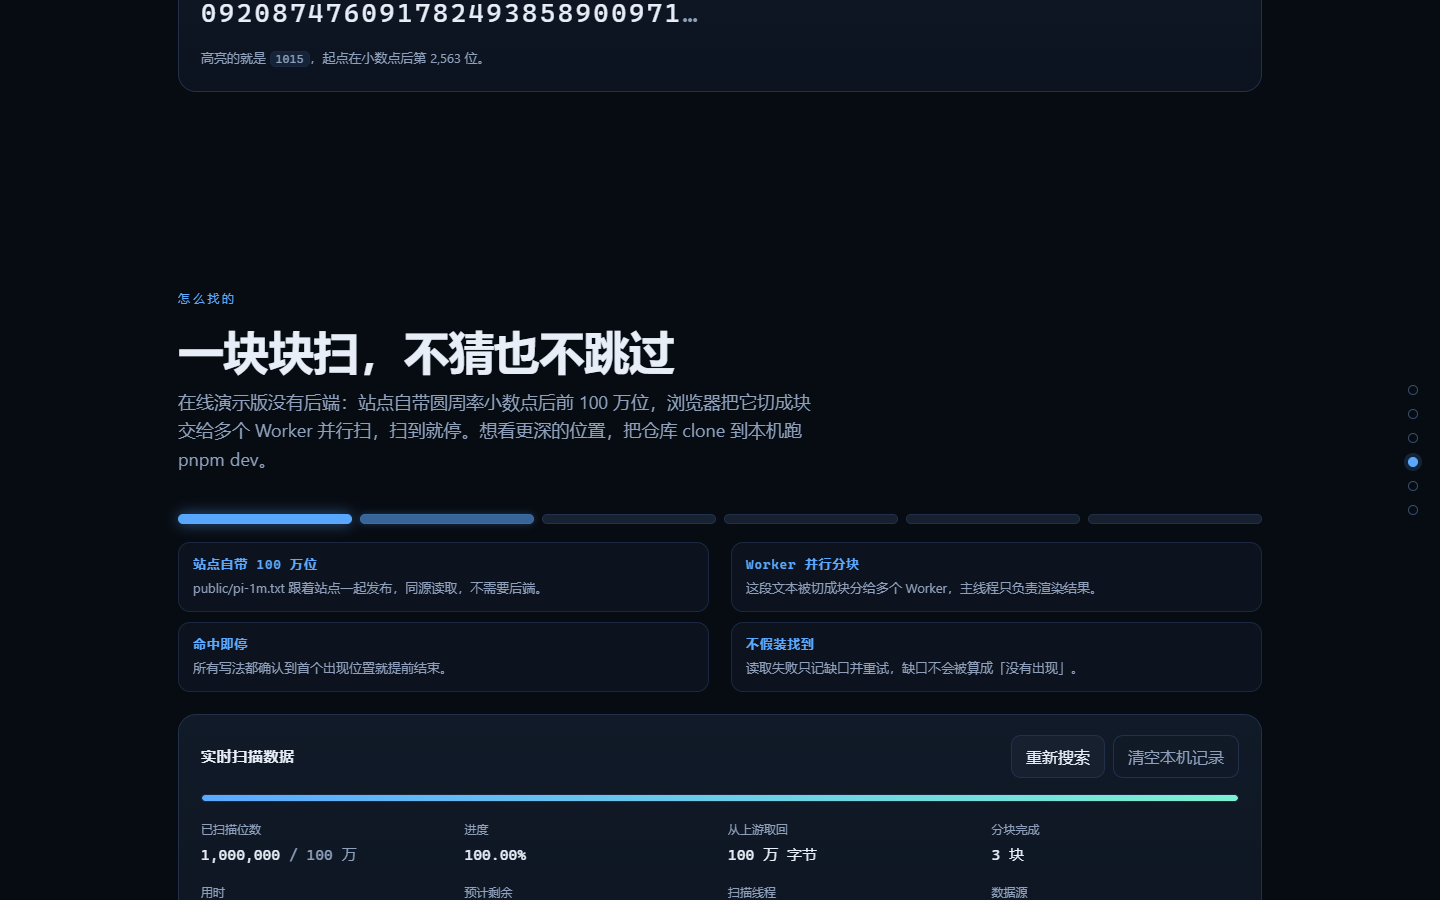
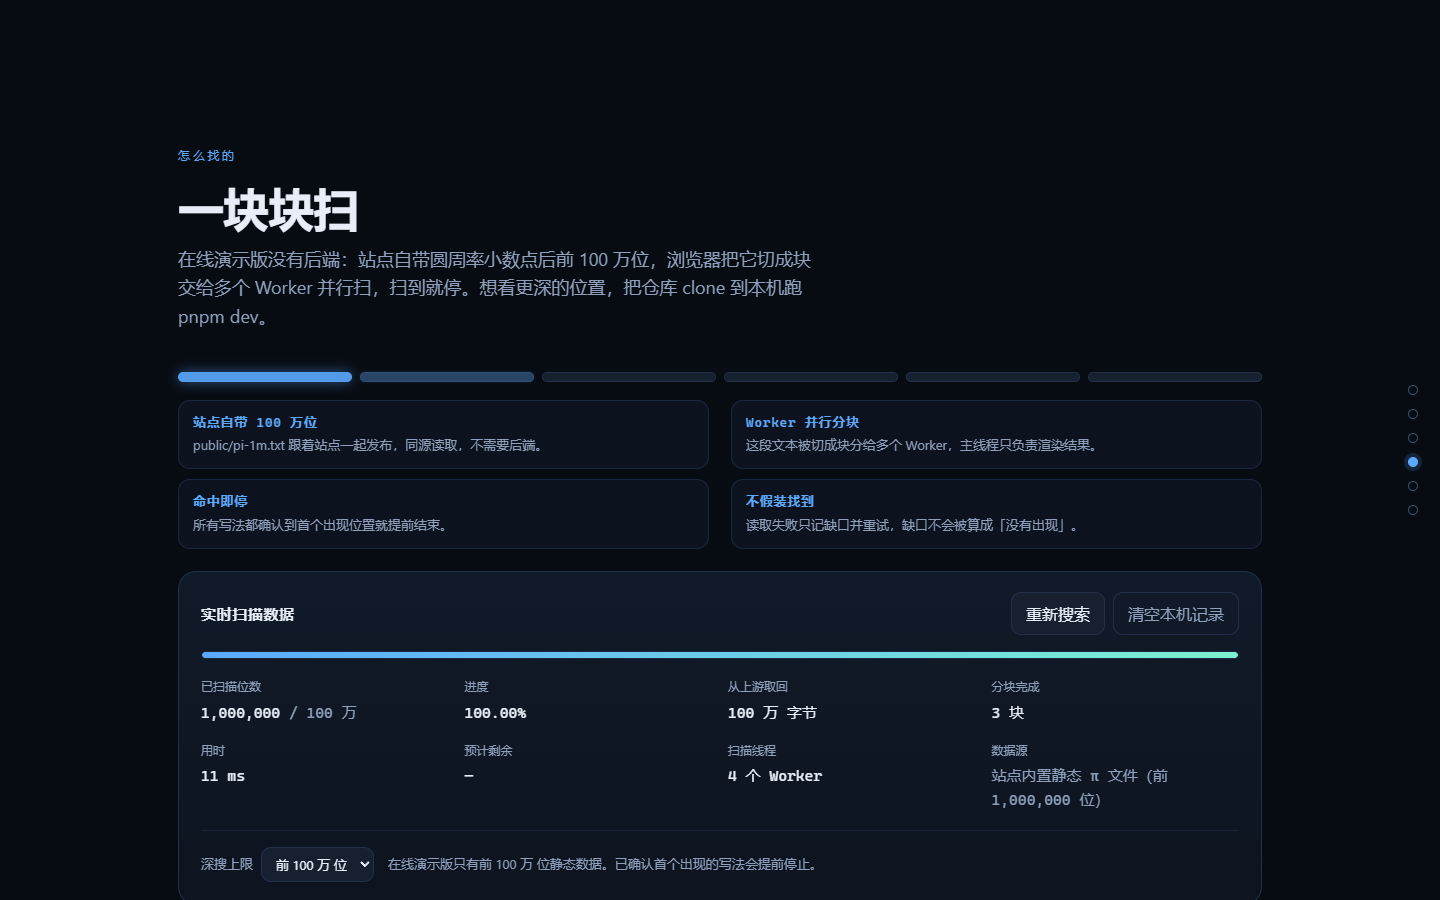
首屏去掉静态说明与数据源行、#engine 静态版标题精简为「一块块扫」、整页滚动加入滚动吸附
滚动吸附：html scroll-snap-type:y proximity + 每章 scroll-snap-align:start，并用 useSectionPaging 接管滚轮（边界翻整段、长章节先原生滚、700ms 锁定窗口；触屏/键盘/reduced-motion 不拦）。翻页判定提取为 src/lib/paging.ts 纯函数并补单测（79 tests）。

diff --git a/tests/paging.test.ts b/tests/paging.test.ts
@@ -1,0 +1,93 @@
+import { describe, expect, it } from 'vitest';
+import { PAGE_SLACK, pageTarget, sectionIndexAt, normalizeSections, type PagingSection } from '../src/lib/paging';
+
+const VIEWPORT = 800;
+const MAX_SCROLL = 4000;
+
+/** hero 一屏，forms 比一屏高，digits 一屏，多给一段用于测试夹取。 */
+const SECTIONS: PagingSection[] = [
+  { id: 'hero', top: 0, height: 800 },
+  { id: 'forms', top: 800, height: 1200 },
+  { id: 'digits', top: 2000, height: 800 },
+];
+
+describe('归一化与定位', () => {
+  it('乱序输入按文档顺序排好', () => {
+    const shuffled = [SECTIONS[2], SECTIONS[0], SECTIONS[1]];
+    expect(normalizeSections(shuffled).map((s) => s.id)).toEqual(['hero', 'forms', 'digits']);
+  });
+
+  it('段落顶部算作该段，段内位置也归该段', () => {
+    expect(sectionIndexAt(SECTIONS, 0)).toBe(0);
+    expect(sectionIndexAt(SECTIONS, 799)).toBe(0);
+    expect(sectionIndexAt(SECTIONS, 800)).toBe(1);
+    expect(sectionIndexAt(SECTIONS, 1900)).toBe(1);
+    expect(sectionIndexAt(SECTIONS, 2000)).toBe(2);
+  });
+
+  it('还没滚到第一段时归第一段；空列表返回 -1', () => {
+    expect(sectionIndexAt(SECTIONS, -50)).toBe(0);
+    expect(sectionIndexAt([], 0)).toBe(-1);
+  });
+});
+
+describe('向下翻页', () => {
+  it('一屏高的段落：任何向下滚动都吸到下一段开头', () => {
+    expect(pageTarget(SECTIONS, VIEWPORT, MAX_SCROLL, 0, 1)).toBe(800);
+    expect(pageTarget(SECTIONS, VIEWPORT, MAX_SCROLL, 12, 1)).toBe(800);
+  });
+
+  it('比一屏高的段落：没滚到底就交回原生滚动', () => {
+    // forms 的底边对齐视口底部是 scrollY = 800 + 1200 - 800 = 1200
+    expect(pageTarget(SECTIONS, VIEWPORT, MAX_SCROLL, 801, 1)).toBeNull();
+    expect(pageTarget(SECTIONS, VIEWPORT, MAX_SCROLL, 1100, 1)).toBeNull();
+    expect(pageTarget(SECTIONS, VIEWPORT, MAX_SCROLL, 1200 - PAGE_SLACK - 1, 1)).toBeNull();
+  });
+
+  it('滚到段落底部后翻到下一段', () => {
+    expect(pageTarget(SECTIONS, VIEWPORT, MAX_SCROLL, 1200 - PAGE_SLACK, 1)).toBe(2000);
+    expect(pageTarget(SECTIONS, VIEWPORT, MAX_SCROLL, 1300, 1)).toBe(2000);
+  });
+
+  it('最后一段到底后不再翻，交回原生滚动', () => {
+    expect(pageTarget(SECTIONS, VIEWPORT, MAX_SCROLL, MAX_SCROLL, 1)).toBeNull();
+  });
+
+  it('段落底部超出文档上限时按上限夹取', () => {
+    const shorter = [
+      { id: 'a', top: 0, height: 800 },
+      { id: 'b', top: 800, height: 5000 },
+    ];
+    expect(pageTarget(shorter, VIEWPORT, 1000, 0, 1)).toBe(800);
+    expect(pageTarget(shorter, VIEWPORT, 700, 0, 1)).toBe(700);
+  });
+});
+
+describe('向上翻页', () => {
+  it('段首（含容差）向上吸到上一段开头', () => {
+    expect(pageTarget(SECTIONS, VIEWPORT, MAX_SCROLL, 2000, -1)).toBe(800);
+    expect(pageTarget(SECTIONS, VIEWPORT, MAX_SCROLL, 2000 + PAGE_SLACK, -1)).toBe(800);
+  });
+
+  it('比一屏高的段落内向上先交回原生滚动', () => {
+    expect(pageTarget(SECTIONS, VIEWPORT, MAX_SCROLL, 800 + PAGE_SLACK + 1, -1)).toBeNull();
+    expect(pageTarget(SECTIONS, VIEWPORT, MAX_SCROLL, 1800, -1)).toBeNull();
+  });
+
+  it('一屏高段落里向上直接翻页（没有可再往下看的内容）', () => {
+    expect(pageTarget(SECTIONS, VIEWPORT, MAX_SCROLL, 2000 + PAGE_SLACK + 1, -1)).toBe(800);
+    expect(pageTarget(SECTIONS, VIEWPORT, MAX_SCROLL, 2600, -1)).toBe(800);
+  });
+
+  it('第一段向上回到 0', () => {
+    expect(pageTarget(SECTIONS, VIEWPORT, MAX_SCROLL, 0, -1)).toBe(0);
+  });
+});
+
+describe('退化输入', () => {
+  it('空章节表 / 零视口 / 无法滚动时都不干预', () => {
+    expect(pageTarget([], VIEWPORT, MAX_SCROLL, 0, 1)).toBeNull();
+    expect(pageTarget(SECTIONS, 0, MAX_SCROLL, 0, 1)).toBeNull();
+    expect(pageTarget(SECTIONS, VIEWPORT, 0, 0, 1)).toBeNull();
+  });
+});

diff --git a/src/hooks/useSectionPaging.ts b/src/hooks/useSectionPaging.ts
@@ -1,0 +1,72 @@
+import { useEffect } from 'react';
+import { pageTarget, type PagingSection } from '../lib/paging';
+
+/** 一次翻页动画期间吞掉同一手势剩下的滚轮事件（毫秒）。 */
+const LOCK_MS = 700;
+/** 小于这个量级的 deltaY 当抖动丢掉。 */
+const MIN_DELTA = 4;
+
+/** 光标下还有能继续滚的容器时不要抢滚动（例如将来的代码块）。 */
+function scrollableAncestor(target: EventTarget | null, direction: 1 | -1): boolean {
+  let node = target instanceof HTMLElement ? target : null;
+  while (node && node !== document.body && node !== document.documentElement) {
+    const style = window.getComputedStyle(node);
+    if (/(auto|scroll)/.test(style.overflowY) && node.scrollHeight > node.clientHeight + 1) {
+      const room = direction === 1 ? node.scrollHeight - node.clientHeight - node.scrollTop : node.scrollTop;
+      if (room > 1) return true;
+    }
+    node = node.parentElement;
+  }
+  return false;
+}
+
+/** 现场量章节几何（6 段，开销可忽略；量完即用，不缓存，避免动画期间位置过期）。 */
+export function measureSections(ids: readonly string[]): PagingSection[] {
+  const out: PagingSection[] = [];
+  for (const id of ids) {
+    const node = document.getElementById(id);
+    if (!node) continue;
+    const rect = node.getBoundingClientRect();
+    out.push({ id, top: Math.round(rect.top + window.scrollY), height: Math.round(rect.height) });
+  }
+  return out;
+}
+
+/**
+ * 整页滚动吸附：滚轮一步落在章节边界上时，直接翻一整段；段落本身比一屏高时，
+ * 先让浏览器原生滚到底，再翻下一页。触屏、键盘、拖动滚动条都不拦。
+ */
+export function useSectionPaging(ids: readonly string[], enabled = true) {
+  const key = ids.join(',');
+
+  useEffect(() => {
+    if (!enabled || typeof window === 'undefined') return;
+    if (typeof window.matchMedia === 'function' && window.matchMedia('(prefers-reduced-motion: reduce)').matches) return;
+
+    const idList = key ? key.split(',') : [];
+    let lockUntil = 0;
+
+    const onWheel = (event: WheelEvent) => {
+      if (event.defaultPrevented || event.ctrlKey || Math.abs(event.deltaY) < MIN_DELTA) return;
+      const now = Date.now();
+      if (now < lockUntil) {
+        event.preventDefault();
+        return;
+      }
+      const direction: 1 | -1 = event.deltaY > 0 ? 1 : -1;
+      if (scrollableAncestor(event.target, direction)) return;
+
+      const viewportHeight = window.innerHeight;
+      const maxScroll = Math.max(0, document.documentElement.scrollHeight - viewportHeight);
+      const target = pageTarget(measureSections(idList), viewportHeight, maxScroll, window.scrollY, direction);
+      if (target === null || Math.abs(target - window.scrollY) < 1) return;
+
+      event.preventDefault();
+      lockUntil = now + LOCK_MS;
+      window.scrollTo({ top: target, behavior: 'smooth' });
+    };
+
+    window.addEventListener('wheel', onWheel, { passive: false });
+    return () => window.removeEventListener('wheel', onWheel);
+  }, [key, enabled]);
+}

diff --git a/src/lib/paging.ts b/src/lib/paging.ts
@@ -1,0 +1,68 @@
+/**
+ * 整页滚动吸附的纯计算部分：由「章节几何 + 当前滚动位置 + 滚动方向」决定这一次滚轮
+ * 该翻滚到哪一段的开头，还是交回浏览器原生滚动。
+ *
+ * 为什么不直接用 CSS `scroll-snap-type: y mandatory`：本站有几段比一屏高
+ * （六种写法 6 张卡、引擎控制台），mandatory 会在读到半截时把人弹回段首。
+ */
+
+export interface PagingSection {
+  id: string;
+  /** 文档坐标下的段落顶部 */
+  top: number;
+  height: number;
+}
+
+/** 判定「已经滚到段落底部」的像素容差。 */
+export const PAGE_SLACK = 6;
+
+/** 段落按文档顺序排好；调用方给乱序也安全。 */
+export function normalizeSections(sections: readonly PagingSection[]): PagingSection[] {
+  return [...sections].sort((a, b) => a.top - b.top);
+}
+
+/** 当前位置属于哪一段：取 top <= scrollY 的最后一段；全都还在下面时取第一段。 */
+export function sectionIndexAt(sections: readonly PagingSection[], scrollY: number): number {
+  if (sections.length === 0) return -1;
+  let index = 0;
+  for (let i = 0; i < sections.length; i += 1) {
+    if (sections[i].top <= scrollY) index = i;
+    else break;
+  }
+  return index;
+}
+
+/**
+ * 这一次滚轮该滚到哪：
+ * - `null` = 交回浏览器原生滚动（这一段比一屏高、还没滚到底；或已经到头）。
+ * - 数字 = 该翻滚到的 scrollY（目标段落顶部），吸附效果就来自这里。
+ */
+export function pageTarget(
+  sections: readonly PagingSection[],
+  viewportHeight: number,
+  maxScroll: number,
+  scrollY: number,
+  direction: 1 | -1,
+  slack = PAGE_SLACK,
+): number | null {
+  if (viewportHeight <= 0 || maxScroll <= 0) return null;
+  const list = normalizeSections(sections);
+  const index = sectionIndexAt(list, scrollY);
+  if (index < 0) return null;
+  const current = list[index];
+
+  if (direction === 1) {
+    // 段落底部对齐视口底部的那一屏，就是「滚到底了」
+    const boundary = current.top + current.height - viewportHeight;
+    if (scrollY + slack < boundary) return null;
+    const next = list[index + 1];
+    if (!next) return null;
+    return Math.min(next.top, maxScroll);
+  }
+
+  // 一屏能装下的段落没有「往下看」的余地，向上也直接翻页；比一屏高的先滚回段首
+  const fitsViewport = current.height <= viewportHeight + slack;
+  if (!fitsViewport && scrollY > current.top + slack) return null;
+  const prev = list[index - 1];
+  return prev ? Math.max(0, Math.min(prev.top, maxScroll)) : 0;
+}

diff --git a/src/styles.css b/src/styles.css
@@ -36,6 +36,14 @@ body {
   overflow-x: hidden;
 }
 
+/* 整页滚动吸附：靠近章节边界时吸到章节开头。
+   章节里有比一屏高的（表单 6 张卡、引擎控制台），所以用 proximity 而不是 mandatory ——
+   mandatory 会把正在读长章节的人弹回章节开头。 */
+html {
+  scroll-snap-type: y proximity;
+  scroll-padding-top: 24px;
+}
+
 body {
   background:
     radial-gradient(1200px 620px at 15% -10%, #12233d, rgba(7, 11, 18, 0) 55%),
@@ -175,8 +183,12 @@ button:disabled {
 
 .chapter {
   position: relative;
+  min-height: 100vh;
+  min-height: 100svh;
   padding-block: var(--gap-chapter);
   scroll-margin-top: 24px;
+  scroll-snap-align: start;
+  scroll-snap-stop: normal;
 }
 
 .chapter-head {
@@ -316,6 +328,7 @@ button:disabled {
   position: relative;
   min-height: 100vh;
   min-height: 100svh;
+  scroll-snap-align: start;
   display: grid;
   place-items: center;
   text-align: center;
@@ -445,25 +458,6 @@ button:disabled {
   color: #a8f6e2;
 }
 
-/* 静态托管（GitHub Pages）下的说明句：没有可点的链接，所以不沿用链接的强调色 */
-p.stage-cta-plain {
-  margin: 0;
-  max-width: 580px;
-  color: var(--dim);
-  line-height: 1.6;
-}
-
-p.stage-cta-plain code {
-  color: var(--accent-2);
-}
-
-.stage-source {
-  margin: 0;
-  font-family: var(--mono);
-  font-size: 12px;
-  color: #6f82a0;
-}
-
 .stage-scroll {
   margin-top: 22px;
   display: inline-flex;
@@ -525,8 +519,7 @@ p.stage-cta-plain code {
   animation: stage-in 0.7s ease 0.12s both;
 }
 
-.js-motion .stage-note,
-.js-motion .stage-source {
+.js-motion .stage-note {
   animation: stage-in 0.7s ease 0.22s both;
 }
 
@@ -1271,6 +1264,7 @@ input[type='date'] {
 @media (prefers-reduced-motion: reduce) {
   html {
     scroll-behavior: auto;
+    scroll-snap-type: none;
   }
   .js-motion .reveal,
   .js-motion .card-slot {
@@ -1285,7 +1279,6 @@ input[type='date'] {
   .js-motion .stage-caption,
   .js-motion .stage-note,
   .js-motion .stage-cta,
-  .js-motion .stage-source,
   .js-motion .stage-scroll,
   .stage-arrow,
   .js-motion .engine-facts.is-in .block,

diff --git a/src/App.tsx b/src/App.tsx
@@ -9,6 +9,7 @@ import { TrustChapter } from './components/sections/TrustChapter';
 import { SiteFooter } from './components/sections/SiteFooter';
 import { useNow } from './hooks/useNow';
 import { useActiveSection } from './hooks/useActiveSection';
+import { useSectionPaging } from './hooks/useSectionPaging';
 import { encodingsFor, searchNeedles } from './lib/encodings';
 import { findOccurrencesInText } from './lib/searchCore';
 import { PiSearchRun, type ScanSnapshot, type Scanner } from './lib/searchEngine';
@@ -87,6 +88,8 @@ export default function App() {
   const persistedRef = useRef<Set<string>>(new Set());
 
   const activeSection = useActiveSection(SECTION_IDS);
+  // 整页滚动吸附：滚轮落在章节边界时一次翻一整段（长章节先原生滚到底）
+  useSectionPaging(SECTION_IDS);
 
   // 0) 深链：#forms / #digits … 直接定位到章节（截图与分享用），不等入场动画
   useEffect(() => {

diff --git a/src/components/sections/HeroStage.tsx b/src/components/sections/HeroStage.tsx
@@ -91,13 +91,7 @@ export function HeroStage({
           <a className="stage-cta" href="#engine">
             {primaryDigits} 这个 8 位完整写法还没锁定 —— 到「怎么找的」里深搜到 1 亿 / 10 亿位 →
           </a>
-        ) : source?.kind === 'static' ? (
-          <p className="stage-cta stage-cta-plain">
-            在线演示版只带前 {formatCompact(source.maxDigits)} 位静态数据；想看小数点后 10 亿位，把仓库 clone 到本机跑{' '}
-            <code>pnpm dev</code>。
-          </p>
         ) : null}
-        <p className="stage-source">数据源：{source ? source.label : '正在探测数据源…'}</p>
         <a className="stage-scroll" href="#forms">
           向下滚动
           <span className="stage-arrow" aria-hidden="true">

diff --git a/src/components/sections/EngineChapter.tsx b/src/components/sections/EngineChapter.tsx
@@ -24,7 +24,7 @@ export function EngineChapter({ deepTargets, source, ...consoleProps }: EngineCh
     <Section
       id="engine"
       eyebrow="怎么找的"
-      title={isServer ? '从上游搬到本地，再一块块扫' : '一块块扫，不猜也不跳过'}
+      title={isServer ? '从上游搬到本地，再一块块扫' : '一块块扫'}
       lead={
         isServer
           ? '页面本身不做计算：本机服务把 MIT 的 π 文件按块搬到磁盘，浏览器把每一块交给 Worker 扫，扫到就停。'

diff --git a/README.md b/README.md
@@ -1,6 +1,6 @@
 # π 里的今天 · 你的日期藏在圆周率的第几位
 
-把任意一天写成 6 种常见数字写法，看看它在 **π 的小数点后第几位**第一次出现。整页滚动的产品展示站：首屏只有一个巨型答案数字，向下滚动逐章展开证据、方法与口径。默认跟随系统当天（秒级时钟，跨零点自动重跑）。
+把任意一天写成 6 种常见数字写法，看看它在 **π 的小数点后第几位**第一次出现。整页滚动的产品展示站：首屏只有一个巨型答案数字，向下滚动逐章展开证据、方法与口径。滚动带吸附 —— 滚轮落在章节边界时一次翻一整段，比一屏高的章节先原生滚到底再翻页。默认跟随系统当天（秒级时钟，跨零点自动重跑）。
 
 ## 在线演示
 
@@ -32,6 +32,7 @@ pnpm dev        # http://127.0.0.1:5273
 - 深链：`http://127.0.0.1:5273/#forms` 之类直接定位到章节（挂载时瞬时定位，供截图与分享）。
 - 指定日期：`http://127.0.0.1:5273/?date=2028-02-29`（非法值忽略，回落到今天）。
 - 首屏默认只搜到 **1000 万位**。这个深度通常已经能锁定 `MMDD` / `DDMM` / `YYMMDD`，所以首屏给出的是这一天里最早确认的位次（例如今天 `MMDD 1015` → 第 2,563 位）；8 位完整写法若还没出现，首屏会写明「`YYYYMMDD` 这个 8 位完整写法还没锁定」并指向 `#engine` 的 1 亿 / 10 亿深搜。
+- **滚动吸附**：`html { scroll-snap-type: y proximity }` 给每章 `scroll-snap-align: start`，再由 `useSectionPaging` 接管滚轮：落在章节边界时一次翻一整段（700ms 锁定窗口防连翻），比一屏高的章节先原生滚到底再翻页，一屏装得下的章节上下都直接翻页。用 `proximity` 而不是 `mandatory`，避免读长章节时被弹回段首；触屏、键盘、拖动滚动条与 `prefers-reduced-motion: reduce` 都不吸附。
 - **动效可关**：遵守 `prefers-reduced-motion: reduce` —— 所有入场、计数、点亮、数字流与视差一次性归零，内容直接呈现终态。
 
 ## 六种写法
@@ -72,7 +73,7 @@ pnpm dev        # http://127.0.0.1:5273
 ## 动效实现（不引入任何动画库）
 
 - `src/lib/motion.ts`：`clamp01` / `easeOutCubic` / `stagger` / `revealDelay` / `countUpValue` / `scrollThroughProgress` 等纯函数（有单测）。
-- `src/hooks/`：`useInView`（IntersectionObserver，once + cleanup，StrictMode 安全）、`useScrollProgress`（rAF 节流的 passive 滚动监听，只读 `getBoundingClientRect`）、`useCountUp`、`usePrefersReducedMotion`、`useActiveSection`。
+- `src/hooks/`：`useInView`（IntersectionObserver，once + cleanup，StrictMode 安全）、`useScrollProgress`（rAF 节流的 passive 滚动监听，只读 `getBoundingClientRect`）、`useCountUp`、`usePrefersReducedMotion`、`useActiveSection`、`useSectionPaging`（滚轮翻章）。翻页判定在 `src/lib/paging.ts` 的 `pageTarget` / `sectionIndexAt` 里，是纯函数、有单测；hook 只负责度量章节、拦滚轮、维持 700ms 锁定窗口。
 - CSS：JS 挂载后给 `<html>` 加 `.js-motion`，之后 `.reveal` 才有 `opacity: 0` / `translateY(20px)` 初值，进入视口加 `.is-in` 过渡到终态（0.7s）。**没有 JS 时内容默认可见**。只动 `transform` / `opacity` / `scale`。
 
 ## 脚本
@@ -111,7 +112,7 @@ pnpm dlx playwright screenshot --channel=chrome --color-scheme=dark --viewport-s
 # 章节： #forms / #digits / #engine / #pick / #trust 各来一张
 ```
 
-手工核对：首屏计数从 0 走到位次、卡片 90ms 依次浮入、数字带命中片段逐位点亮、`#engine` 方块循环点亮、导航轨高亮与点击跳转、`?date=2028-02-29`（首屏给 `DDMM 2902` → 第 713 位；`YYMMDD 280229` → 第 451,478 位）、日期切换后首屏跟随、停止 / 重新搜索 / 清空本机记录、静态降级提示、762 位自检徽章；再把浏览器调成 620px 宽确认单列与导航轨隐藏，并在 DevTools 里模拟 `prefers-reduced-motion: reduce` 确认所有动画一次性归零。
+手工核对：首屏计数从 0 走到位次、卡片 90ms 依次浮入、数字带命中片段逐位点亮、`#engine` 方块循环点亮、导航轨高亮与点击跳转、滚轮翻章（在章节边界滚一格翻一整段，`#forms` 这种比一屏高的段先原生滚到底）、`?date=2028-02-29`（首屏给 `DDMM 2902` → 第 713 位；`YYMMDD 280229` → 第 451,478 位）、日期切换后首屏跟随、停止 / 重新搜索 / 清空本机记录、静态降级提示、762 位自检徽章；再把浏览器调成 620px 宽确认单列与导航轨隐藏，并在 DevTools 里模拟 `prefers-reduced-motion: reduce` 确认所有动画一次性归零。
 
 ## 界面实拍
 
